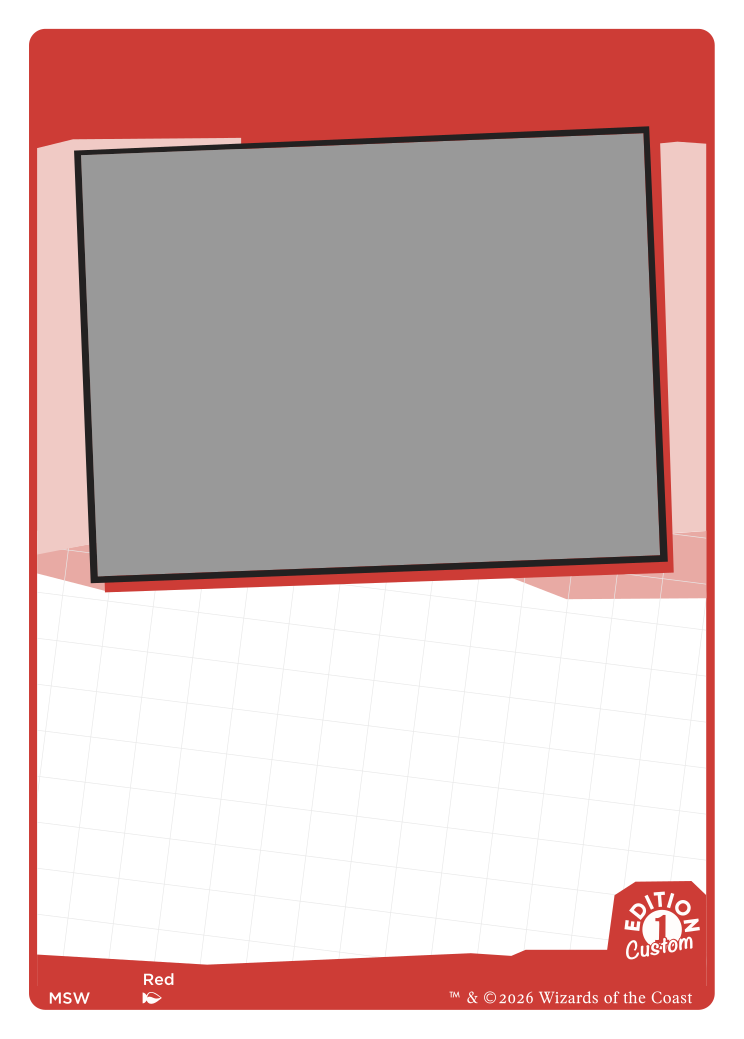
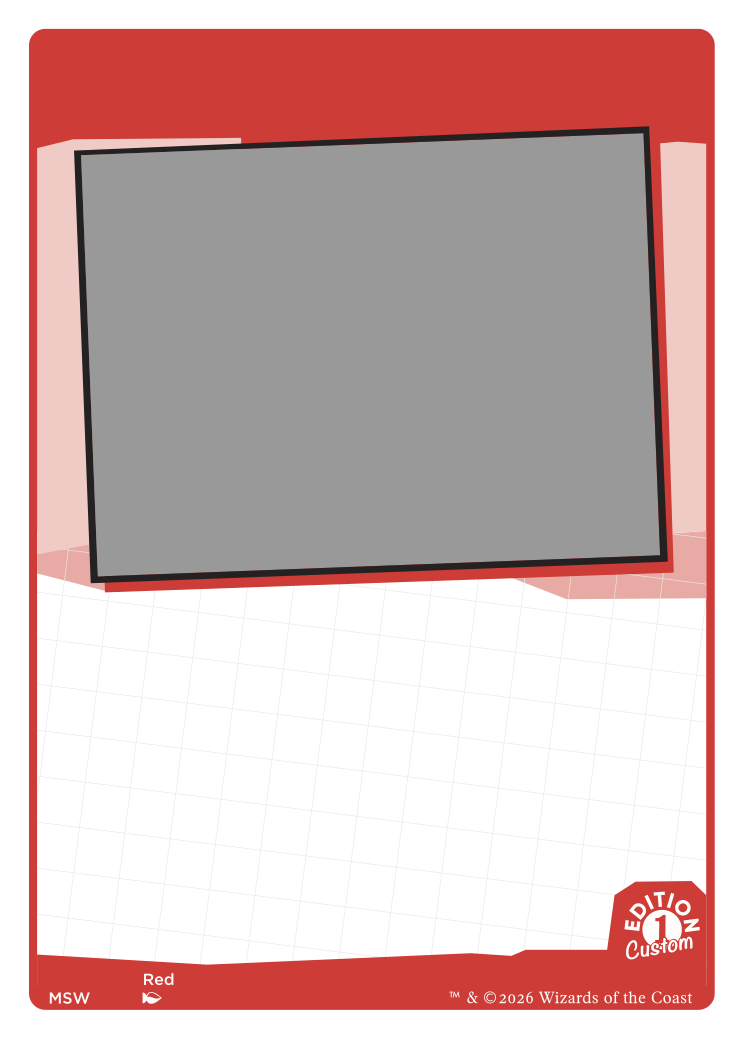
MSE template: make the card 744 x 1040 (multiples of 4 for the Unity client)
The frame images get one extra row at the bottom, a copy of the white margin. Overlays and masks are
positioned from the top left, so nothing else moves.

Claude-Session: https://claude.ai/code/session_01AKUzD9vf33tyYiXxTkypoa

diff --git a/mse/tools/build_assets.py b/mse/tools/build_assets.py
@@ -29,6 +29,8 @@ SVG = os.path.join(REPO, "src", "00_w_blank.svg")
 SLICED = os.path.join(REPO, "sliced")
 STYLE_IMG = os.path.join(MSE, "mood-swings-edition1.mse-style", "img")
 FONT_DIR = os.path.join(MSE, "mood-swings-dice.mse-symbol-font")
+CARD_WIDTH = 744
+CARD_HEIGHT = 1040   # the SVG and slices are 1039 high; 1040 is a multiple of 4
 
 NS = {
     "svg": "http://www.w3.org/2000/svg",
@@ -96,9 +98,18 @@ def main():
 
     # 1. slices -> stylesheet images. The bases stay full-card; the overlays (dice, rarity, reminder)
     # are cropped to the union of their boxes, so each MSE field only covers its own small area.
-    layout = {}
+    layout = {"card": {"width": CARD_WIDTH, "height": CARD_HEIGHT}}
+    # The slices are 744 x 1039. The Unity client needs sizes that are a multiple of 4, so each base gets one
+    # extra row at the bottom (a copy of the last row, which is the white margin around the card). Every
+    # overlay is positioned from the top left, so nothing else moves.
     for c in "wubrg":
-        shutil.copy(os.path.join(SLICED, f"base-{c}.png"), os.path.join(STYLE_IMG, f"base-{c}.png"))
+        base = Image.open(os.path.join(SLICED, f"base-{c}.png")).convert("RGBA")
+        w, h = base.size
+        padded = Image.new("RGBA", (w, CARD_HEIGHT), (0, 0, 0, 0))
+        padded.paste(base, (0, 0))
+        for extra in range(h, CARD_HEIGHT):
+            padded.paste(base.crop((0, h - 1, w, h)), (0, extra))
+        padded.save(os.path.join(STYLE_IMG, f"base-{c}.png"))
 
     def crop_group(sources, box_name):
         """sources: list of (source path, output name). Crop all to the union alpha box."""

diff --git a/mse/tools/write_files.py b/mse/tools/write_files.py
@@ -162,8 +162,8 @@ game: mood-swings
 short name: Edition 1
 full name: Mood Swings Edition 1 card frame
 position hint: 1
-card width: 744
-card height: 1039
+card width: {LAYOUT['card']['width']}
+card height: {LAYOUT['card']['height']}
 card dpi: 300
 card background: rgb(255,255,255)
 
@@ -171,8 +171,8 @@ card style:
   frame color:
     left: 0
     top: 0
-    width: 744
-    height: 1039
+    width: {LAYOUT['card']['width']}
+    height: {LAYOUT['card']['height']}
     z index: 10
     render style: image
     choice images:

diff --git a/mse/README.md b/mse/README.md
@@ -9,7 +9,7 @@ A [Magic Set Editor 2](https://github.com/twanvl/MagicSetEditor2) (MSE) version 
 | Package | What it is |
 |---|---|
 | `mood-swings.mse-game/` | The game: the fields of a card (name, frame color, dice, rarity, rules text, art, ...). |
-| `mood-swings-edition1.mse-style/` | The stylesheet: where each field goes on the 744 x 1039 card, plus the images (`img/`). |
+| `mood-swings-edition1.mse-style/` | The stylesheet: where each field goes on the 744 x 1040 card, plus the images (`img/`). |
 | `mood-swings-dice.mse-symbol-font/` | A symbol font for the six dice that appear inside rules text. |
 | `examples/edition1-sample.mse-set/` | A small sample set (Pacifism, Fear, Determination and a two-dice test card). |
 | `tools/` | The scripts that generate everything above (see "Regenerating"). |
@@ -69,7 +69,7 @@ I could not run MSE, so these are the likeliest places to need a small fix:
 
 - No colorless frame (the Inkscape templates have five colors).
 - No `themed/steampunk` variant.
-- Printing and bleed are not set up. The card size is 744 x 1039 pixels at 300 dpi.
+- Printing and bleed are not set up. The card size is 744 x 1040 pixels at 300 dpi. The Inkscape template and the slices are 744 x 1039; the frame images here have one extra row at the bottom (a copy of the white margin) so both dimensions are multiples of 4, as the Unity client needs. Nothing else moves, because everything is positioned from the top left.
 
 ## Regenerating
 
